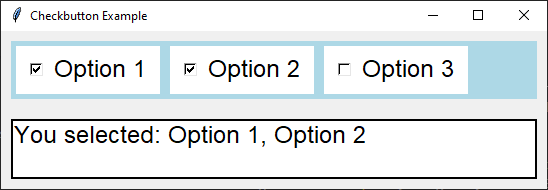
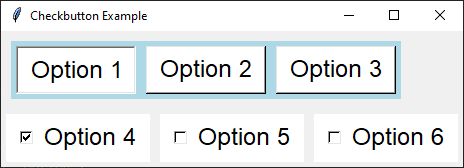
new

diff --git a/docs/tk_widgets/python_checkbutton/tk_check_button.py b/docs/tk_widgets/python_checkbutton/tk_check_button.py
@@ -1,42 +1,53 @@
 import tkinter as tk
 from tkinter import font
 
-def display_options():
-    selected_options = []
-    for i in range(len(options)):
-        if option_vars[i].get():
-            selected_options.append(options[i])
-    text_widget.delete(1.0, 'end')
-    text_widget.insert(tk.END, f"You selected: {', '.join(selected_options)}")
-
 # Create the main window
 root = tk.Tk()
 root.title("Checkbutton Example")
 
 # Create a frame with a background color
-frame = tk.Frame(root, bg="light blue")
-frame.pack(padx=10, pady=10, fill="both", expand=True)
+frame1 = tk.Frame(root, bg="light blue")
+frame1.pack(anchor="nw", padx=10, pady=10)
 
 # Define a font style
 fontStyle = font.Font(family="Lucida Grande", size=18)
 
-# Define the options
-options = ["Option 1", "Option 2", "Option 3"]
+# Define the options for group 1
+options_grp1 = ["Option 1", "Option 2", "Option 3"]
 
 # Create a list to hold the IntVar for each checkbutton
-option_vars = []
-for _ in options:
-    option_vars.append(tk.IntVar())
+option_vars1 = []
+for option in options_grp1:
+    var = tk.IntVar()
+    option_vars1.append(var)
+    # Preselect "Option 1"
+    if option == "Option 1":
+        var.set(1)
 
-# Create and pack the checkbuttons
-for i in range(len(options)):
-    button = tk.Checkbutton(frame, text=options[i], variable=option_vars[i], command=display_options,
+# Create and pack the checkbuttons for group 1
+for option, var in zip(options_grp1, option_vars1):
+    button = tk.Checkbutton(frame1, text=option, variable=var, indicatoron=0,
                             bg="white", fg="black", font=fontStyle, padx=10, pady=5)
-    button.pack(side="left", padx=5, pady=5)
+    button.pack(anchor="nw", side="left", padx=5, pady=5)
 
-# Create a text widget to display the selected options
-text_widget = tk.Text(root, height=2, width=40, bg="white", fg="black", font=fontStyle, bd=2, relief="solid")
-text_widget.pack(padx=10, pady=10)
+
+# Define the options for group 2
+options_grp2 = ["Option 4", "Option 5", "Option 6"]
+
+# Create a list to hold the IntVar for each checkbutton
+option_vars2 = []
+for option in options_grp2:
+    var = tk.IntVar()
+    option_vars2.append(var)
+    # Preselect "Option 4"
+    if option == "Option 4":
+        var.set(1)
+
+# Create and pack the checkbuttons for group 2
+for option, var in zip(options_grp2, option_vars2):
+    button = tk.Checkbutton(root, text=option, variable=var, indicatoron=1,
+                            bg="white", fg="black", font=fontStyle, padx=10, pady=5)
+    button.pack(anchor="nw", side="left", padx=5, pady=5)
 
 # Run the main event loop
 root.mainloop()

diff --git a/docs/tk_widgets/python_radiobutton/tk_radio_button_simple.py b/docs/tk_widgets/python_radiobutton/tk_radio_button_simple.py
@@ -8,7 +8,7 @@ root.title("Option Buttons")
 
 # Create a frame with a background color
 frame = tk.Frame(root, bg="light blue")
-frame.pack(padx=10, pady=10, fill="both", expand=True)
+frame.pack(anchor="nw", padx=10, pady=10)
 
 # Define a font style
 fontStyle = font.Font(family="Lucida Grande", size=18)
@@ -17,13 +17,13 @@ fontStyle = font.Font(family="Lucida Grande", size=18)
 option_grp1_var = tk.StringVar(value=None)  # No default value
 
 # Define the options
-options = ["Option 1", "Option 2", "Option 3"]
+options_grp1 = ["Option 1", "Option 2", "Option 3"]
 
 # Create and pack the radio buttons
-for option in options:
+for option in options_grp1:
     button = tk.Radiobutton(frame, text=option, value=option, variable=option_grp1_var,
                             bg="white", fg="black", font=fontStyle, indicatoron=0, padx=10, pady=5)
-    button.pack(side="left", padx=5, pady=5)
+    button.pack(anchor="nw", side="left", padx=5, pady=5)
 option_grp1_var.set("Option 1")
 
 
@@ -31,13 +31,13 @@ option_grp1_var.set("Option 1")
 option_grp2_var = tk.StringVar(value=None)  # No default value
 
 # Define the options
-options = ["Option 4", "Option 5", "Option 6"]
+options_grp2 = ["Option 4", "Option 5", "Option 6"]
 
 # Create and pack the radio buttons
-for option in options:
+for option in options_grp2:
     button = tk.Radiobutton(root, text=option, value=option, variable=option_grp2_var,
                             bg="white", fg="black", font=fontStyle, indicatoron=1, padx=10, pady=5)
-    button.pack(side="left", padx=5, pady=5)
+    button.pack(anchor="nw", side="left", padx=5, pady=5)
 option_grp2_var.set("Option 4")
 
 # Run the main event loop

diff --git a/docs/tk_widget_interactions/tk_check_button.py b/docs/tk_widget_interactions/tk_check_button.py
@@ -1,0 +1,42 @@
+import tkinter as tk
+from tkinter import font
+
+def display_options():
+    selected_options = []
+    for i in range(len(options)):
+        if option_vars[i].get():
+            selected_options.append(options[i])
+    text_widget.delete(1.0, 'end')
+    text_widget.insert(tk.END, f"You selected: {', '.join(selected_options)}")
+
+# Create the main window
+root = tk.Tk()
+root.title("Checkbutton Example")
+
+# Create a frame with a background color
+frame = tk.Frame(root, bg="light blue")
+frame.pack(padx=10, pady=10, fill="both", expand=True)
+
+# Define a font style
+fontStyle = font.Font(family="Lucida Grande", size=18)
+
+# Define the options
+options = ["Option 1", "Option 2", "Option 3"]
+
+# Create a list to hold the IntVar for each checkbutton
+option_vars = []
+for _ in options:
+    option_vars.append(tk.IntVar())
+
+# Create and pack the checkbuttons
+for i in range(len(options)):
+    button = tk.Checkbutton(frame, text=options[i], variable=option_vars[i], command=display_options,
+                            bg="white", fg="black", font=fontStyle, padx=10, pady=5)
+    button.pack(side="left", padx=5, pady=5)
+
+# Create a text widget to display the selected options
+text_widget = tk.Text(root, height=2, width=40, bg="white", fg="black", font=fontStyle, bd=2, relief="solid")
+text_widget.pack(padx=10, pady=10)
+
+# Run the main event loop
+root.mainloop()

diff --git a/docs/tk_widget_interactions/tk_checkbutton.rst b/docs/tk_widget_interactions/tk_checkbutton.rst
@@ -25,7 +25,7 @@ Using check buttons
 .. image:: images/check_buttons.png
     :scale: 100%
 
-This code demonstrates the use of check boxes (check buttons).
+This code demonstrates the use of check boxes (check buttons) and a text widget to display the selected options.
 
 
 .. code-block:: python
@@ -33,56 +33,95 @@ This code demonstrates the use of check boxes (check buttons).
     import tkinter as tk
     from tkinter import font
 
+    def display_options():
+        selected_options = []
+        for i in range(len(options)):
+            if option_vars[i].get():
+                selected_options.append(options[i])
+        text_widget.delete(1.0, 'end')
+        text_widget.insert(tk.END, f"You selected: {', '.join(selected_options)}")
+
     # Create the main window
     root = tk.Tk()
     root.title("Checkbutton Example")
 
     # Create a frame with a background color
-    frame1 = tk.Frame(root, bg="light blue")
-    frame1.pack(anchor="nw", padx=10, pady=10)
+    frame = tk.Frame(root, bg="light blue")
+    frame.pack(padx=10, pady=10, fill="both", expand=True)
 
     # Define a font style
     fontStyle = font.Font(family="Lucida Grande", size=18)
 
-    # Define the options for group 1
-    options_grp1 = ["Option 1", "Option 2", "Option 3"]
+    # Define the options
+    options = ["Option 1", "Option 2", "Option 3"]
 
     # Create a list to hold the IntVar for each checkbutton
-    option_vars1 = []
-    for option in options_grp1:
-        var = tk.IntVar()
-        option_vars1.append(var)
-        # Preselect "Option 1"
-        if option == "Option 1":
-            var.set(1)
+    option_vars = []
+    for _ in options:
+        option_vars.append(tk.IntVar())
 
-    # Create and pack the checkbuttons for group 1
-    for option, var in zip(options_grp1, option_vars1):
-        button = tk.Checkbutton(frame1, text=option, variable=var, indicatoron=0,
-                                bg="white", fg="black", font=fontStyle, padx=10, pady=5)
-        button.pack(anchor="nw", side="left", padx=5, pady=5)
+    # Create and pack the checkbuttons
+    for i in range(len(options)):
+        button = tk.Checkbutton(frame, text=options[i], variable=option_vars[i],
+                                 command=display_options, bg="white", fg="black", font=fontStyle, padx=10, pady=5)
+        button.pack(side="left", padx=5, pady=5)
 
-
-    # Define the options for group 2
-    options_grp2 = ["Option 4", "Option 5", "Option 6"]
-
-    # Create a list to hold the IntVar for each checkbutton
-    option_vars2 = []
-    for option in options_grp2:
-        var = tk.IntVar()
-        option_vars2.append(var)
-        # Preselect "Option 4"
-        if option == "Option 4":
-            var.set(1)
-
-    # Create and pack the checkbuttons for group 2
-    for option, var in zip(options_grp2, option_vars2):
-        button = tk.Checkbutton(root, text=option, variable=var, indicatoron=1,
-                                bg="white", fg="black", font=fontStyle, padx=10, pady=5)
-        button.pack(anchor="nw", side="left", padx=5, pady=5)
+    # Create a text widget to display the selected options
+    text_widget = tk.Text(root, height=2, width=40, bg="white", fg="black",
+                            font=fontStyle, bd=2, relief="solid")
+    text_widget.pack(padx=10, pady=10)
 
     # Run the main event loop
     root.mainloop()
+
+For loops
+~~~~~~~~~~~~~~~
+
+These loops help create and manage the checkbuttons and their states, as well as display the selected options in the text widget.
+
+1. **Creating `IntVar` List**:
+
+   .. code-block:: python
+
+       option_vars = []
+       for _ in options:
+           option_vars.append(tk.IntVar())
+
+   - This loop iterates over the `options` list.
+   - For each option, it creates a new `IntVar` instance and appends it to the `option_vars` list.
+   - The underscore `_` is used as a placeholder since the loop variable is not needed.
+
+2. **Creating and Packing Checkbuttons**:
+
+   .. code-block:: python
+
+       for i in range(len(options)):
+           button = tk.Checkbutton(frame, text=options[i], variable=option_vars[i],
+                                    command=display_options, bg="white", fg="black",
+                                    font=fontStyle, padx=10, pady=5)
+           button.pack(side="left", padx=5, pady=5)
+
+   - This loop iterates over the indices of the `options` list using `range(len(options))`.
+   - For each index `i`, it creates a `Checkbutton` with the corresponding text from `options[i]` and variable from `option_vars[i]`.
+   - The `Checkbutton` is then packed into the frame with specified padding and alignment.
+
+3. **Displaying Selected Options**:
+
+   .. code-block:: python
+
+       def display_options():
+           selected_options = []
+           for i in range(len(options)):
+               if option_vars[i].get():
+                   selected_options.append(options[i])
+           text_widget.delete(1.0, 'end')
+           text_widget.insert(tk.END, f"You selected: {', '.join(selected_options)}")
+
+   - This loop iterates over the indices of the `options` list.
+   - For each index `i`, it checks if the corresponding `IntVar` in `option_vars[i]` is set (i.e., the checkbutton is selected).
+   - If selected, the option from `options[i]` is appended to the `selected_options` list.
+   - The text widget is then updated to display the selected options.
+
 
 ----
 

diff --git a/docs/tk_widgets/tk_radiobutton.rst b/docs/tk_widgets/tk_radiobutton.rst
@@ -33,6 +33,7 @@ Using radio buttons
 | The `indicatoron` option is set to `0` to make the radio buttons look like regular buttons.
 | The `indicatoron` option is set to `1` to make the radio buttons look like radio buttons.
 
+| A for loop is used to create each group of radio buttons since they have the dame formatting options apart from the text and value options which are taken care of by the loop variable, `option`.
 
 .. code-block:: python
 
@@ -46,7 +47,7 @@ Using radio buttons
 
     # Create a frame with a background color
     frame = tk.Frame(root, bg="light blue")
-    frame.pack(padx=10, pady=10, fill="both", expand=True)
+    frame.pack(anchor="nw", padx=10, pady=10)
 
     # Define a font style
     fontStyle = font.Font(family="Lucida Grande", size=18)
@@ -55,13 +56,13 @@ Using radio buttons
     option_grp1_var = tk.StringVar(value=None)  # No default value
 
     # Define the options
-    options = ["Option 1", "Option 2", "Option 3"]
+    options_grp1 = ["Option 1", "Option 2", "Option 3"]
 
     # Create and pack the radio buttons
-    for option in options:
+    for option in options_grp1:
         button = tk.Radiobutton(frame, text=option, value=option, variable=option_grp1_var,
                                 bg="white", fg="black", font=fontStyle, indicatoron=0, padx=10, pady=5)
-        button.pack(side="left", padx=5, pady=5)
+        button.pack(anchor="nw", side="left", padx=5, pady=5)
     option_grp1_var.set("Option 1")
 
 
@@ -69,13 +70,13 @@ Using radio buttons
     option_grp2_var = tk.StringVar(value=None)  # No default value
 
     # Define the options
-    options = ["Option 4", "Option 5", "Option 6"]
+    options_grp2 = ["Option 4", "Option 5", "Option 6"]
 
     # Create and pack the radio buttons
-    for option in options:
+    for option in options_grp2:
         button = tk.Radiobutton(root, text=option, value=option, variable=option_grp2_var,
                                 bg="white", fg="black", font=fontStyle, indicatoron=1, padx=10, pady=5)
-        button.pack(side="left", padx=5, pady=5)
+        button.pack(anchor="nw", side="left", padx=5, pady=5)
     option_grp2_var.set("Option 4")
 
     # Run the main event loop
